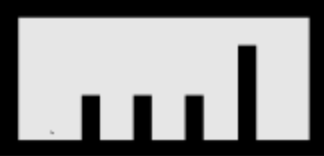
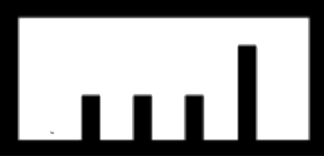
setting the responsive nav

diff --git a/index.html b/index.html
@@ -2,10 +2,12 @@
 <html lang="en" dir="ltr">
   <head>
     <meta charset="utf-8" />
+    <meta name="viewport" content="width=device-width, initial-scale=1" />
     <link rel="stylesheet" href="./css/reset.css" />
     <link rel="stylesheet" href="./css/style.css" />
     <title>Tortoiseshell Optics</title>
   </head>
+
   <body>
     <!--HEADER SECTION-->
     <header>
@@ -22,6 +24,9 @@
             <a href="https://www.instagram.com/">Products</a>
             <a href="https://www.instagram.com/">Contact</a>
           </nav>
+          <menu>
+            <a href="https://www.instagram.com/">Menu</a>
+          </menu>
         </div>
         <!--BANNER SECTION-->
         <h1 class="main-title">DON'T JUST LOOK, SEE.</h1>
@@ -29,7 +34,53 @@
     </header>
 
     <!--MAIN SECTION -->
-    <main></main>
+    <!-- <main>
+      <div class="icons-section">
+        <div class="icon-1">
+          <img src="./images/image3.png" alt="icon-1" />
+          <p>Comprensive</p>
+          <p>Exams</p>
+        </div>
+        <div class="icon-2">
+          <img src="./images/image2.png" alt="icon-2" />
+          <p>Custom</p>
+          <p>Fittings</p>
+        </div>
+        <div class="icon-3">
+          <img src="./images/image2.png" alt="icon-3" />
+          <p>Fast</p>
+          <p>Delivery</p>
+        </div>
+      </div>
+      <div class="blocks">
+        <div class="block-1">
+          <div class="tittle-1">
+            <h2>PHILOSOPHY</h2>
+          </div>
+          <div class="content-1">
+            <p>
+              Lorem Ipsum is simply dummy text of the printing and typesetting
+              industry. Lorem Ipsum has been the industry's standard dummy text
+              ever since the 1500s, when an unknown printer took a galley of
+              type and scrambled it to make a type specimen book. It has
+              survived not only five centuries
+            </p>
+          </div>
+        </div>
+        <div class="block-2">
+          <div class="tittle-2">
+            <h2>APPOINTMENTS</h2>
+          </div>
+          <div class="content-2">
+            <p>
+              Lorem Ipsum is simply dummy text of the printing and typesetting
+              industry. Lorem Ipsum has been the industry's standard dummy text
+              ever since the 1500s.
+            </p>
+          </div>
+        </div>
+      </div>
+    </main> -->
 
     <!--FOOTER SECTION-->
   </body>

diff --git a/CSS/style.css b/CSS/style.css
@@ -51,11 +51,21 @@ a {
   text-decoration: none;
   margin-right: 2rem;
 }
+menu a {
+  padding: 1rem;
+  font-family: Helvetica;
+  color: white;
+  text-decoration: none;
+  margin-right: 2rem;
+}
+
 /*MAIN SECTION*/
+
 main {
   display: flex;
   align-items: center;
   flex-direction: column;
+  background-color: white;
 }
 .main-title {
   position: absolute;
@@ -68,4 +78,124 @@ main {
   font-weight: bold;
   font-size: 2rem;
   line-height: 1.2;
+}
+.icons-section {
+  display: flex;
+  justify-content: center;
+  align-items: center;
+  margin-top: 3rem;
+  margin-bottom: 3rem;
+}
+.icons-section p {
+  font-family: Helvetica;
+  text-align: center;
+  margin-top: 5px;
+}
+.icon-1 {
+  display: flex;
+  align-items: center;
+  flex-direction: column;
+  flex-direction: column;
+  margin-right: 6rem;
+}
+.icon-1 img {
+  width: 3.5rem;
+  margin-bottom: 1rem;
+}
+.icon-2 {
+  display: flex;
+  align-items: center;
+  flex-direction: column;
+  flex-direction: column;
+  margin-right: 6rem;
+}
+.icon-2 img {
+  width: 5rem;
+  margin-bottom: 1rem;
+}
+.icon-3 img {
+  width: 5rem;
+  margin-bottom: 1rem;
+}
+/*BLOCKS SECTION*/
+
+h2 {
+  font-family: Helvetica;
+  font-weight: bold;
+  font-size: 1rem;
+  color: white;
+  display: flex;
+  padding-top: 0.5rem;
+  padding-bottom: 0.5rem;
+  margin-left: 1.25rem;
+}
+.tittle-1 {
+  width: 10rem;
+  background-color: cadetblue;
+}
+.tittle-2 {
+  width: 10rem;
+  background-color: cadetblue;
+}
+.blocks {
+  display: flex;
+  justify-content: center;
+  align-content: center;
+  grid-gap: 5rem;
+}
+.blocks p {
+  font-family: Helvetica;
+  margin-top: 1rem;
+  font-size: 1rem;
+}
+.block-1 {
+  width: 35%;
+}
+.block-2 {
+  width: 35%;
+}
+
+/*RESPONSIVE TABLET SECTION*/
+@media (max-width: 1000px) {
+  .banner-container {
+    width: 100%;
+  }
+  .menu-container {
+    width: 100%;
+  }
+  .main-title {
+    right: 2rem;
+  }
+  menu {
+    display: none;
+  }
+}
+/*RESPONSIVE MOBILE SECTION*/
+@media (max-width: 580px) {
+  .main-title {
+    font-size: 1rem;
+    left: -2rem;
+    font-size: 1.5rem;
+    right: 0rem;
+    padding-left: 30%;
+  }
+  menu {
+    display: flex;
+  }
+
+  .menu-container {
+    margin-top: 0rem;
+  }
+  nav {
+    display: none;
+  }
+  .branding-container p {
+    display: none;
+  }
+}
+@media (max-width: 500px) {
+  .main-title {
+    font-size: 1rem;
+    padding-left: 35%;
+  }
 }
